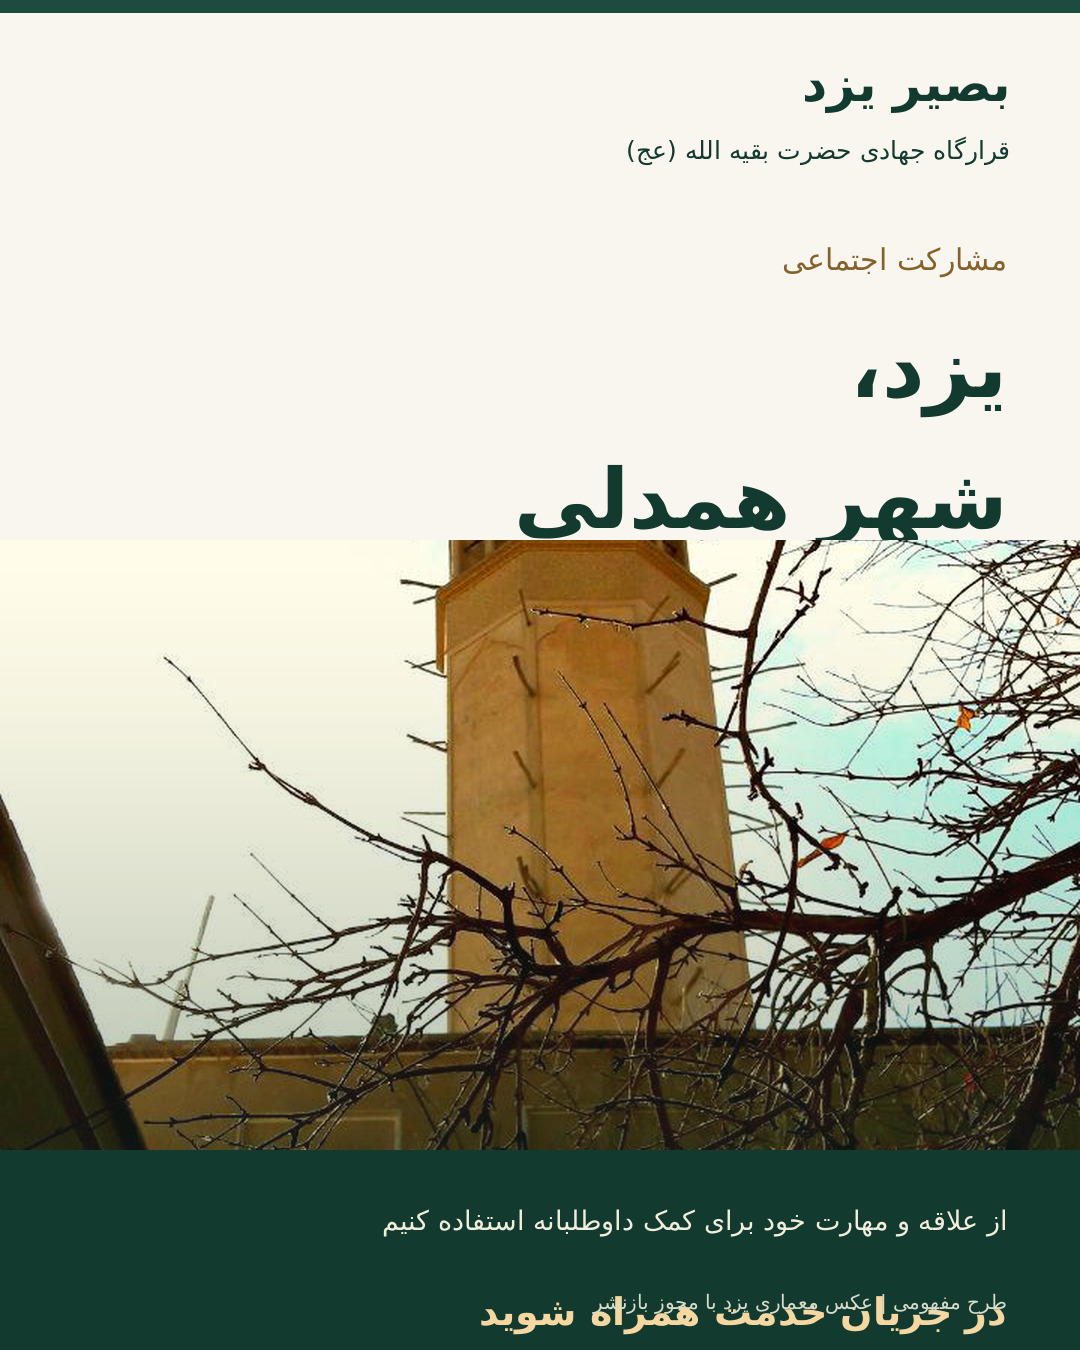
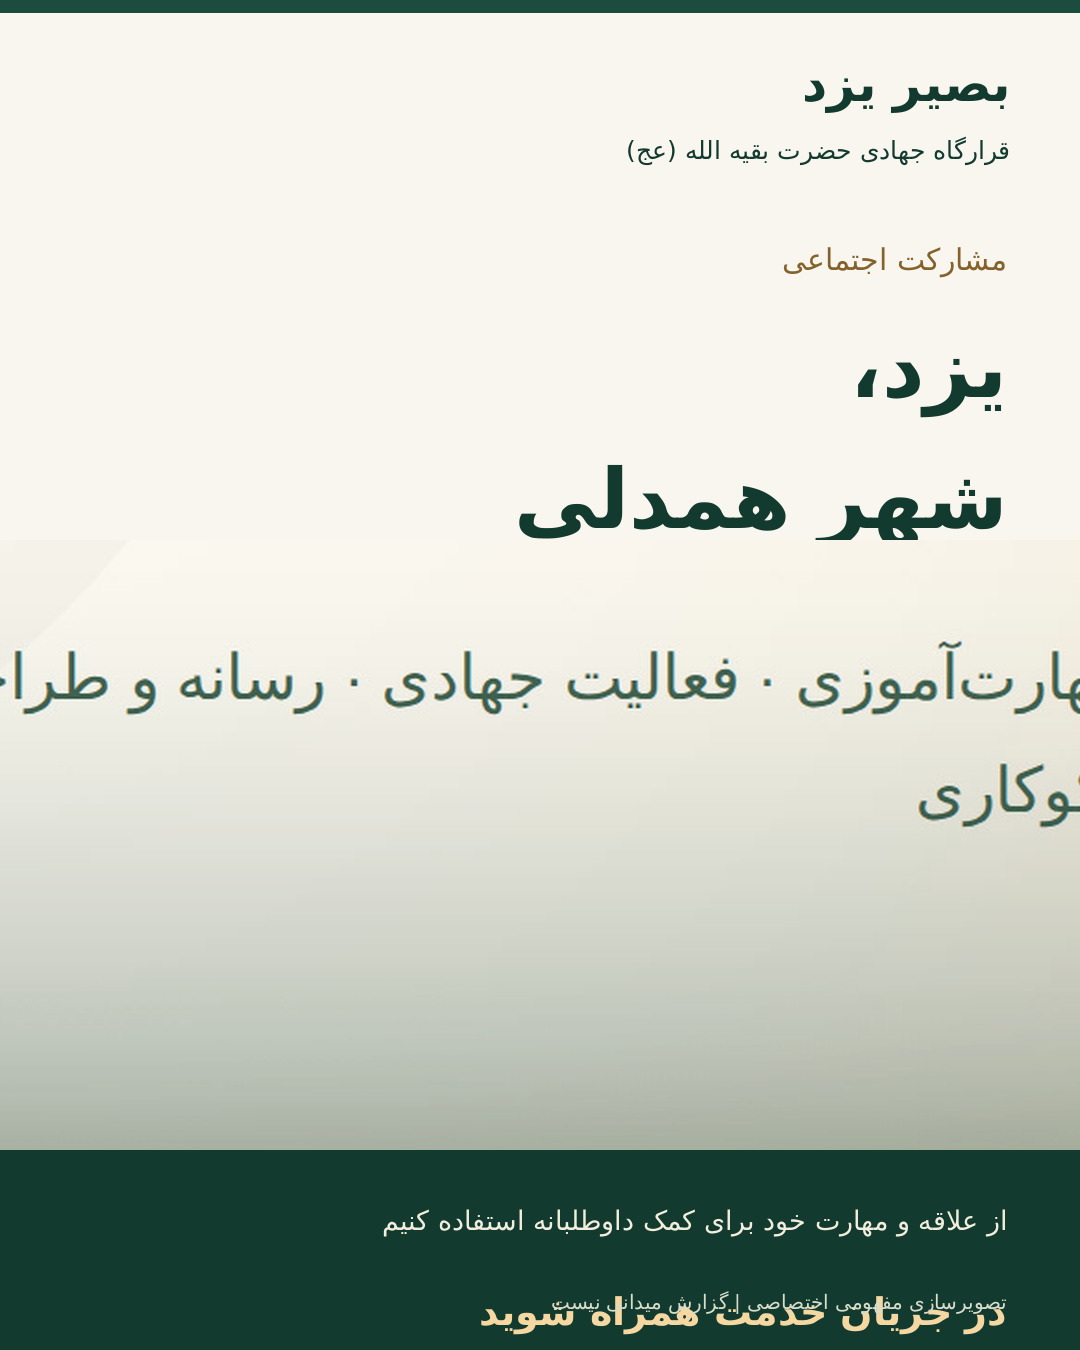
Prepare 6 premium photo campaign previews and credits [skip ci]

diff --git a/basir-social/site/assets/premium/LICENSES.md b/basir-social/site/assets/premium/LICENSES.md
@@ -2,6 +2,6 @@
 
 - volunteer: Rayeshman · https://commons.wikimedia.org/wiki/File:A_windcatcher_and_skylights.jpg · CC BY-SA 4.0 · https://creativecommons.org/licenses/by-sa/4.0/
 - reports: Alen Ištoković · https://commons.wikimedia.org/wiki/File:Yazd%27s_windcatchers_-_panoramio.jpg · CC BY 3.0 · https://creativecommons.org/licenses/by/3.0/
-- yazd: Mr.Shafagh · https://commons.wikimedia.org/wiki/File:Windcatcher.jpg · CC BY-SA 4.0 · https://creativecommons.org/licenses/by-sa/4.0/
+- yazd: Basir Yazd original conceptual art · https://basiryazd.github.io/rozeh-manager/basir-social/site/assets/volunteer-campaign-1080x1350.jpg · Original in-house conceptual illustration · https://basiryazd.github.io/rozeh-manager/basir-social/site/
 
 The designs adapt licensed photographs with typography; keep the attributed source and conditions when sharing. The photos are architectural/editorial, not images of real charitable actions.
